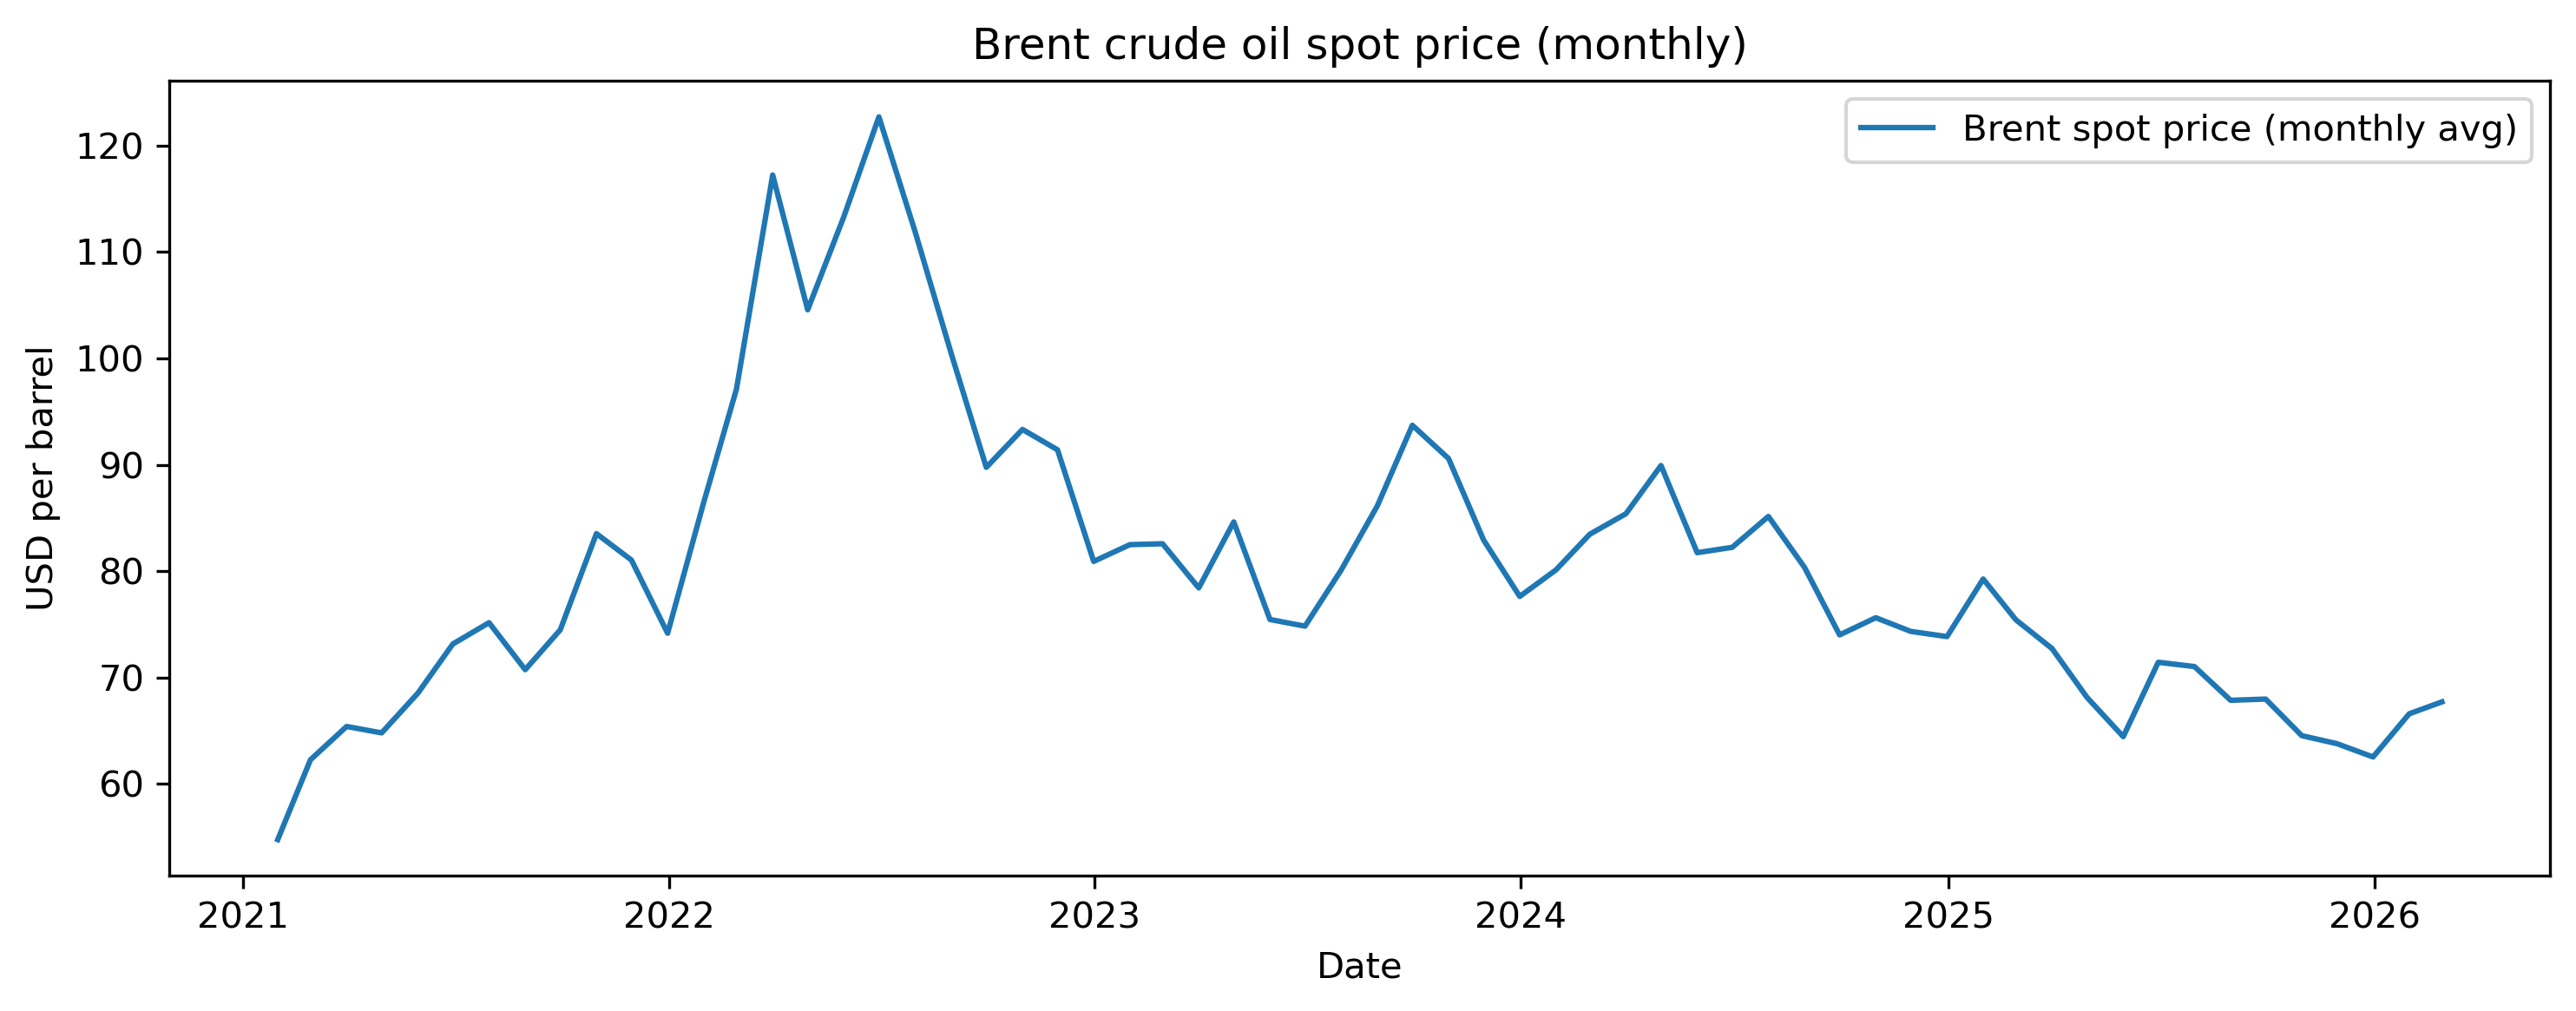
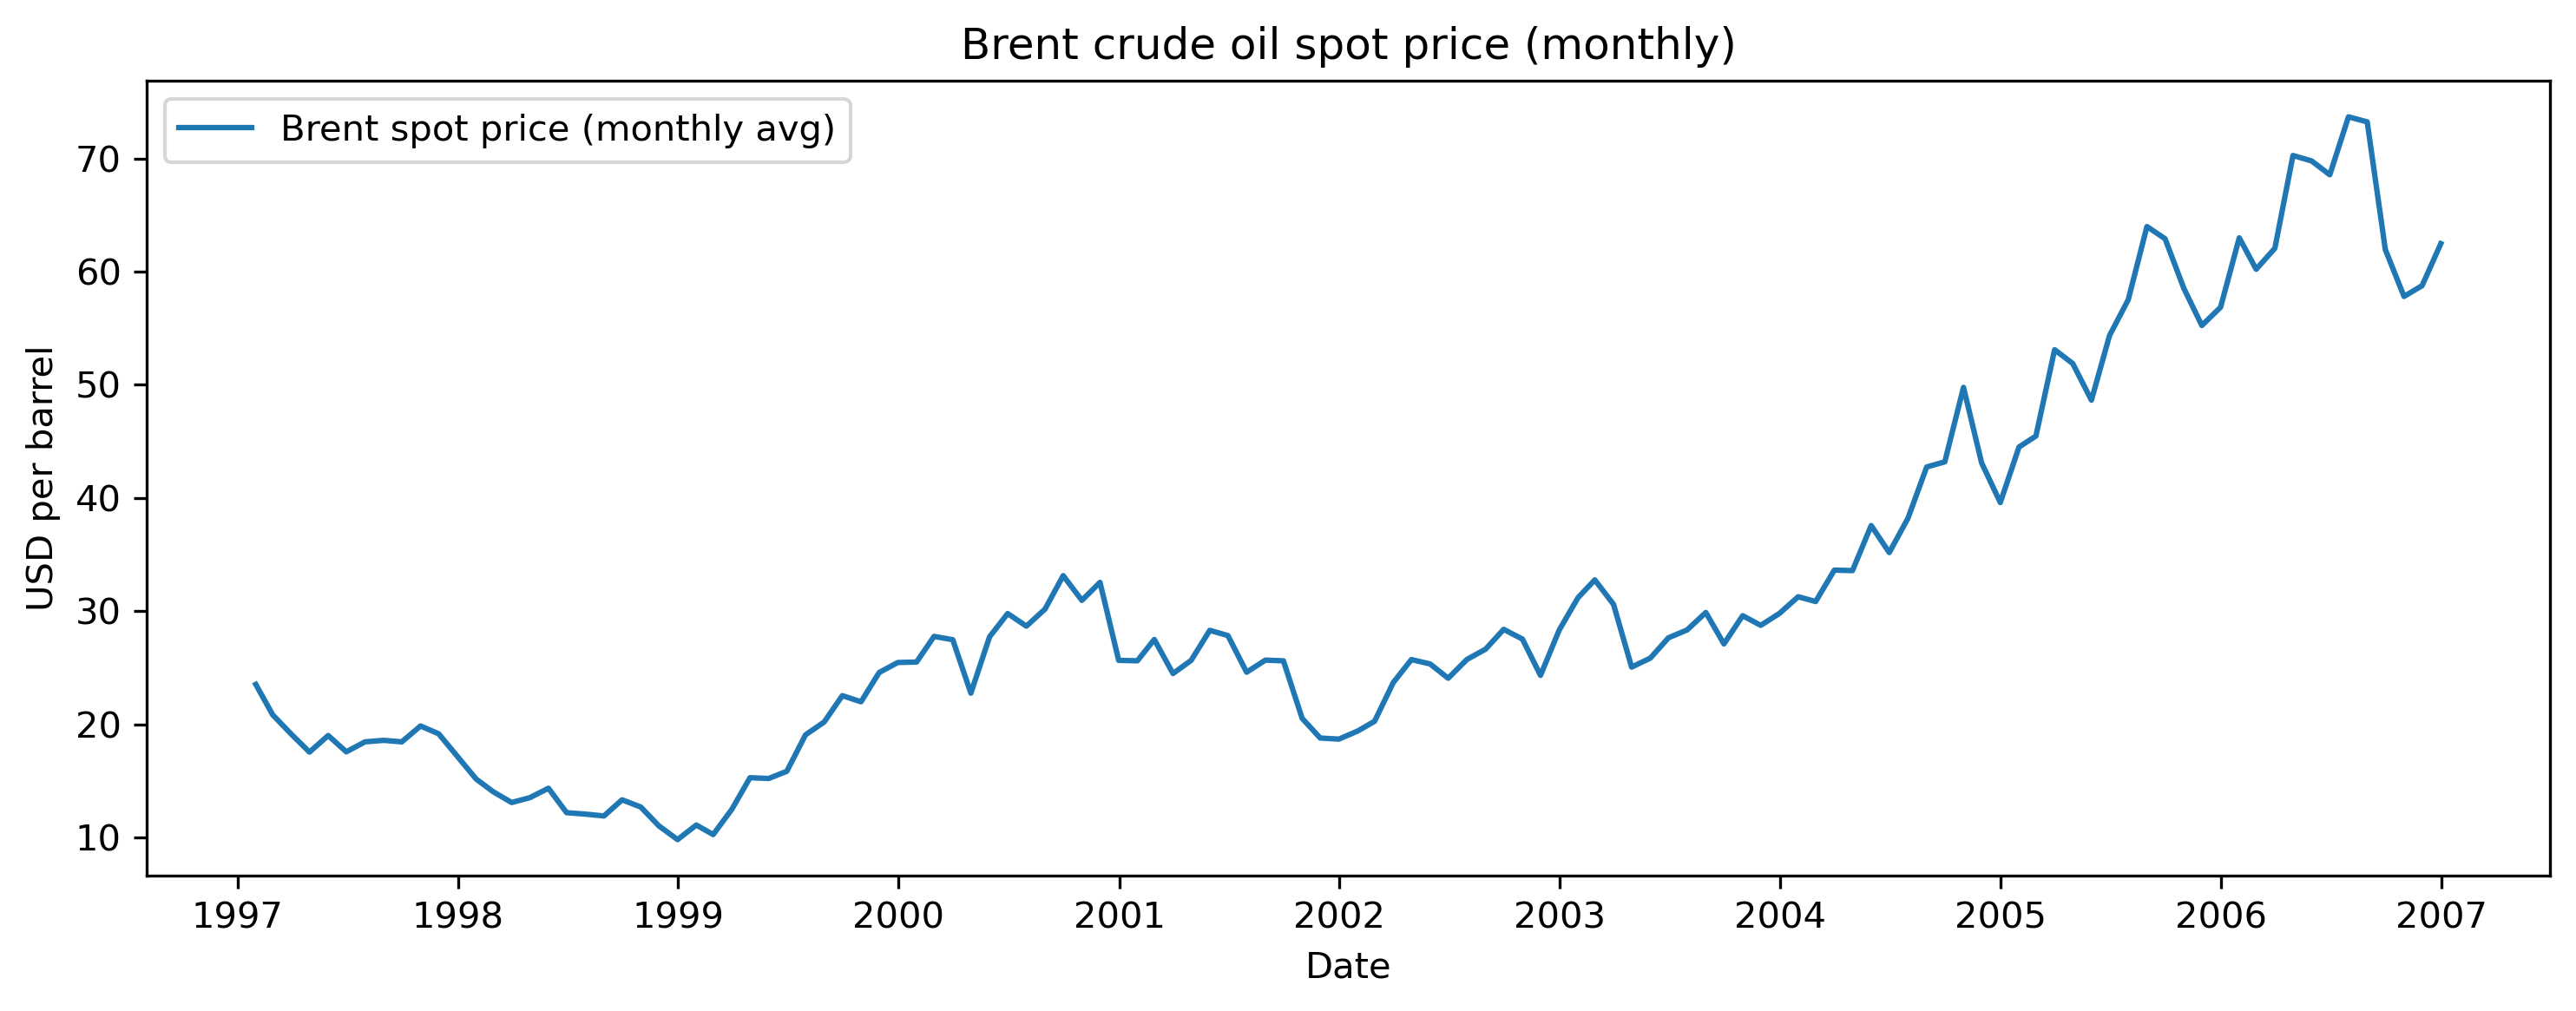
v0

diff --git a/ARIMA/time_series.py b/ARIMA/time_series.py
@@ -7,6 +7,9 @@ from statsmodels.tsa.stattools import adfuller
 from statsmodels.tsa.stattools import kpss
 from statsmodels.graphics.tsaplots import plot_acf, plot_pacf
 import numpy as np
+import os
+
+os.chdir(os.path.dirname(os.path.realpath("time_series.py")))
 
 start = dt.datetime(1997, 1, 1)
 end = dt.datetime(2007,1,1)
@@ -74,4 +77,3 @@ plt.close(fig_acf)
 fig_pacf = plot_pacf(series, lags=20)
 fig_pacf.savefig("pacf_brent_log_d1.png", dpi=300, bbox_inches="tight")
 plt.close(fig_pacf)
-